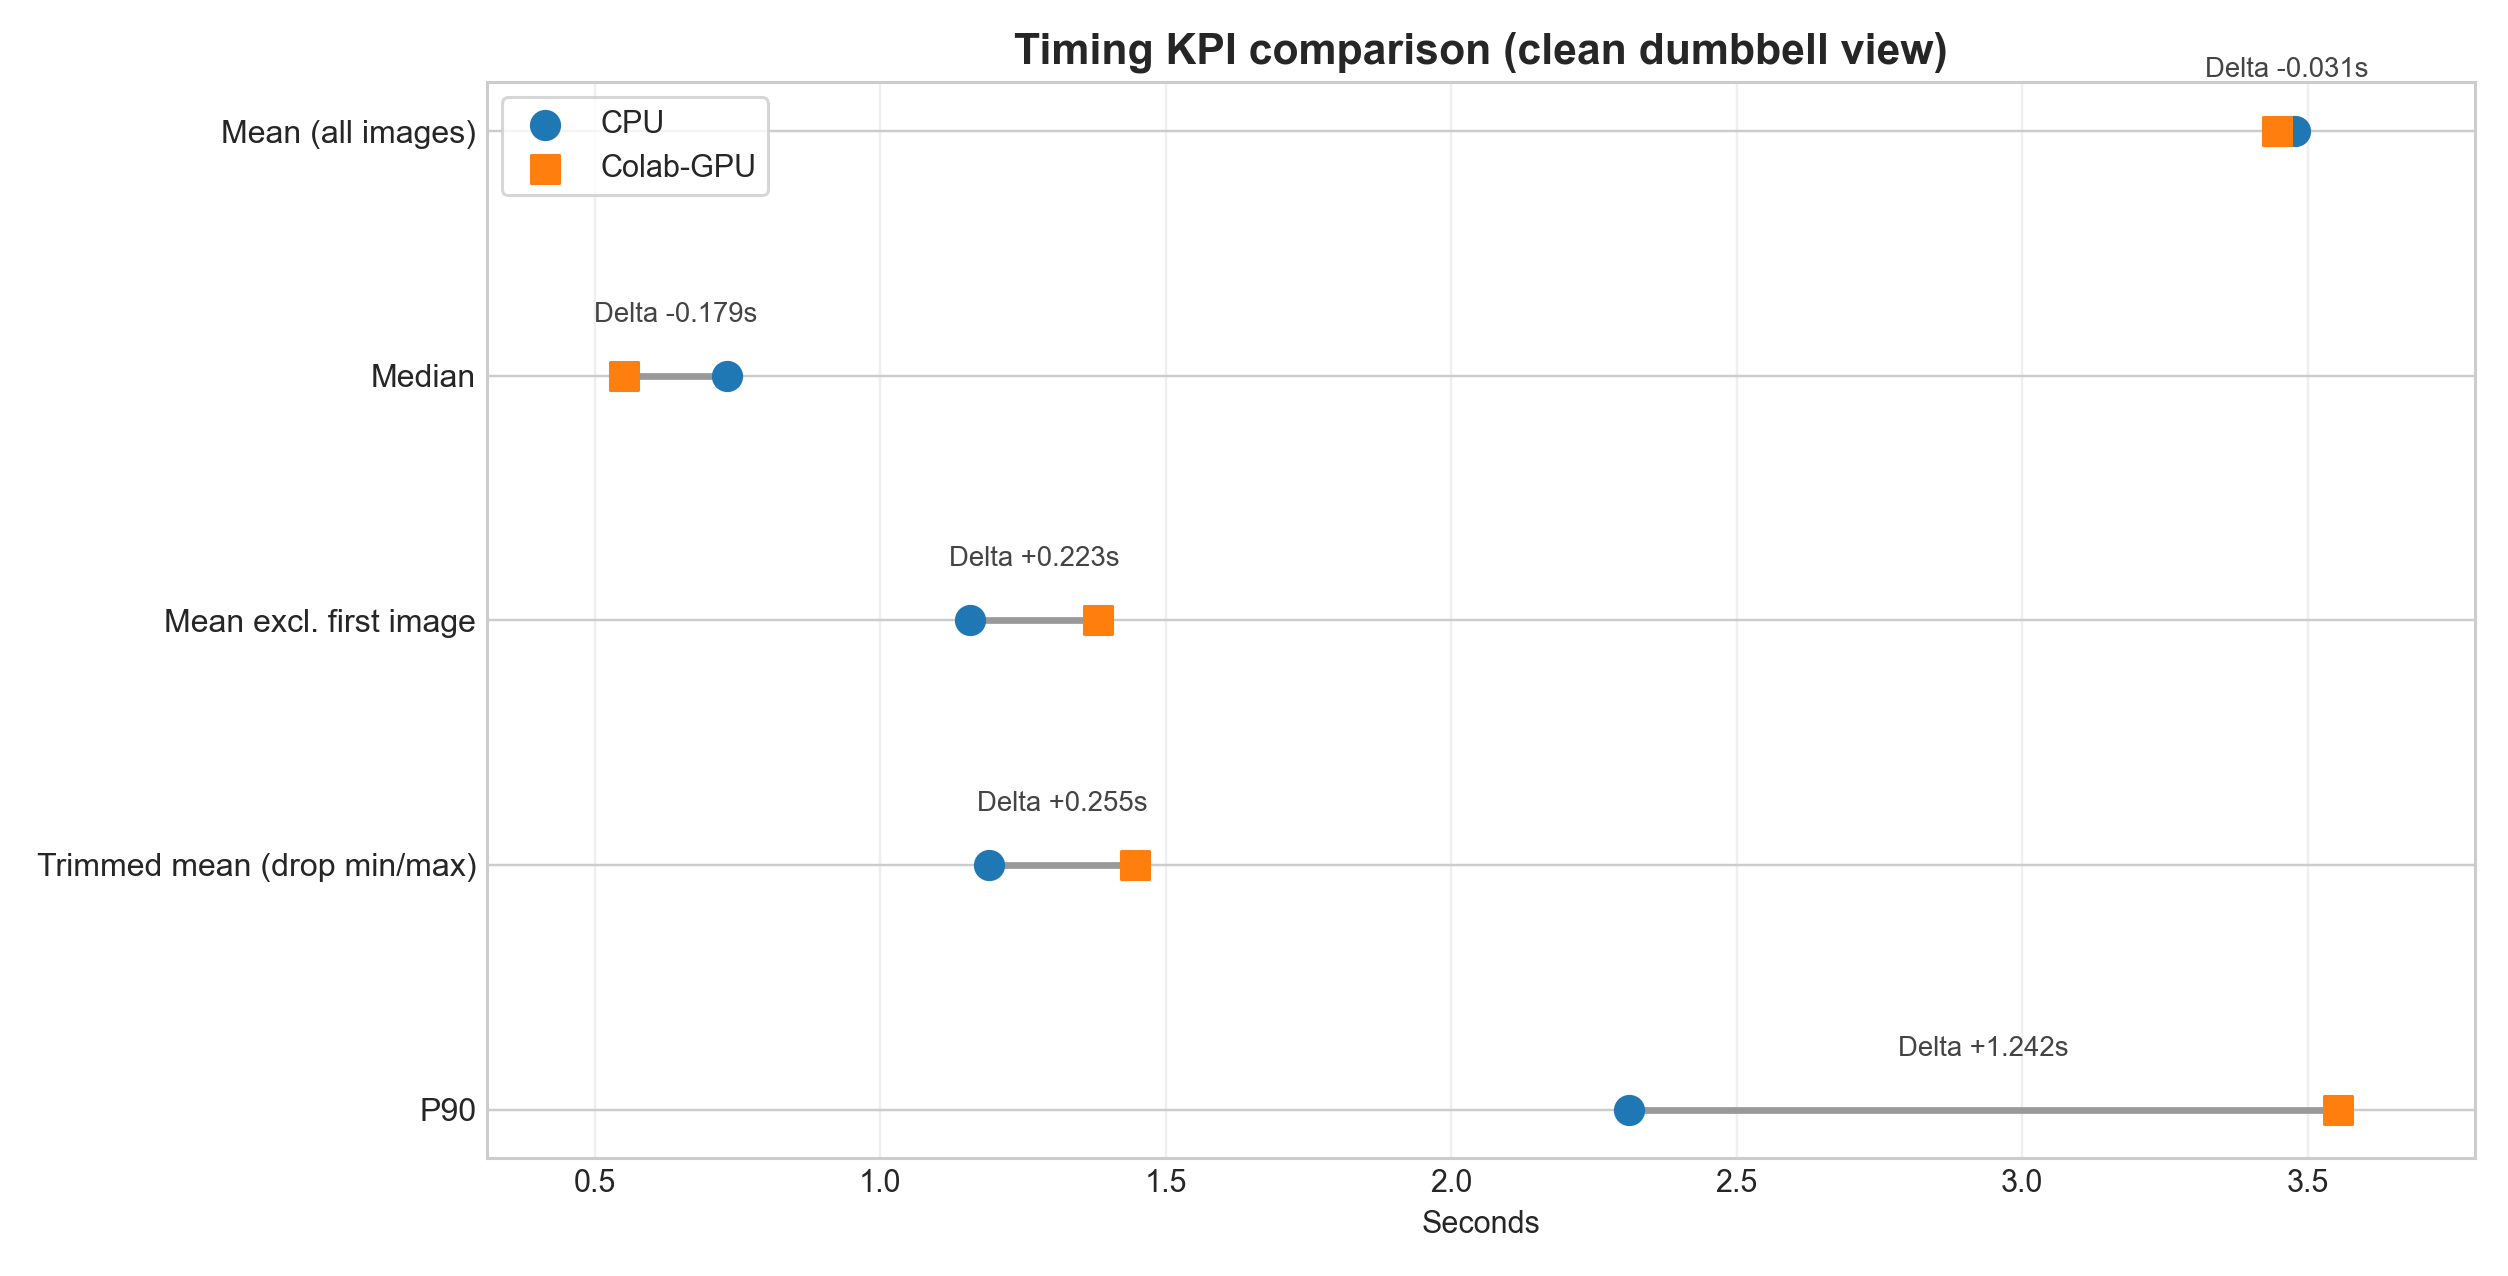
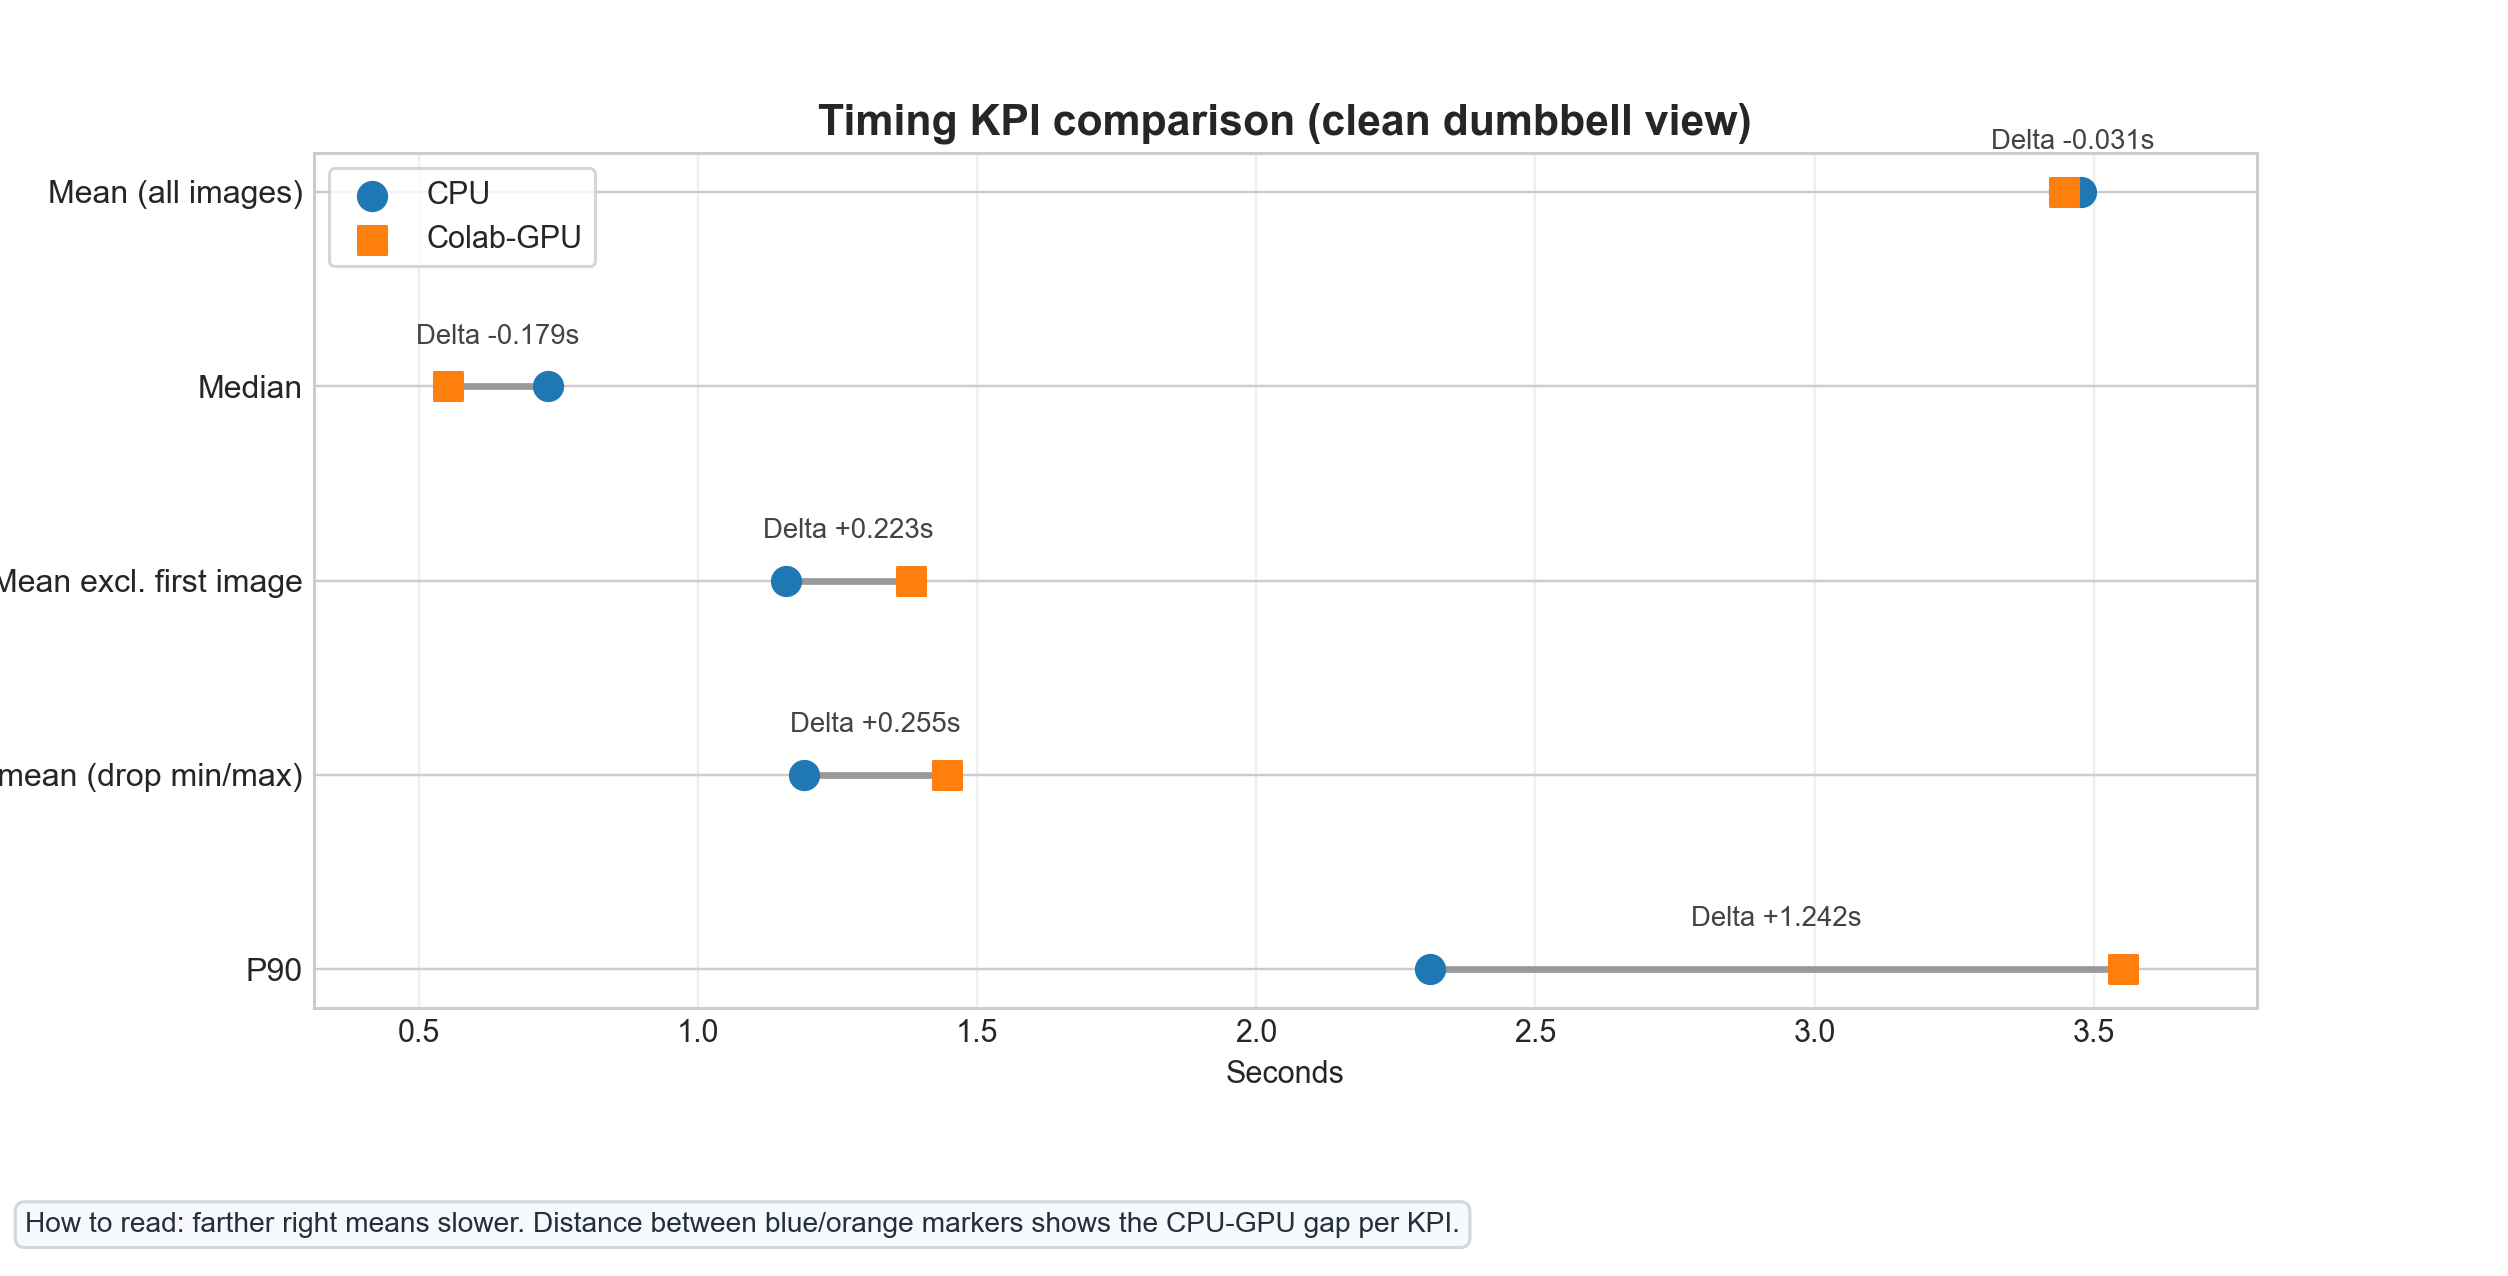
Improve README

diff --git a/results/generate_comparison_charts.py b/results/generate_comparison_charts.py
@@ -58,9 +58,23 @@ def save_quality_parity_panel(cpu_metrics: pd.DataFrame, gpu_metrics: pd.DataFra
     ax_matrix.set_yticks(np.arange(len(values.index)))
     ax_matrix.set_yticklabels([index.title() for index in values.index], fontsize=10)
 
+    vmin, vmax = 0.55, 0.90
     for row in range(values.shape[0]):
         for col in range(values.shape[1]):
-            ax_matrix.text(col, row, f"{values.iloc[row, col]:.3f}", ha="center", va="center", fontsize=9, color="#202020")
+            value = float(values.iloc[row, col])
+            normalized = (value - vmin) / (vmax - vmin)
+            text_color = "#ffffff" if normalized >= 0.58 else "#1f2933"
+            text_weight = "semibold" if normalized >= 0.58 else "normal"
+            ax_matrix.text(
+                col,
+                row,
+                f"{value:.3f}",
+                ha="center",
+                va="center",
+                fontsize=9,
+                color=text_color,
+                fontweight=text_weight,
+            )
 
     fig.colorbar(image, ax=ax_matrix, fraction=0.046, pad=0.03, label="Metric value")
 
@@ -141,7 +155,20 @@ def save_timing_dumbbell(
     padding = (xmax - xmin) * 0.08
     ax.set_xlim(max(0.0, xmin - padding), xmax + padding)
 
-    fig.tight_layout()
+    fig.subplots_adjust(bottom=0.21)
+    fig.text(
+        0.01,
+        0.03,
+        (
+            "How to read: farther right means slower. "
+            "Distance between blue/orange markers shows the CPU-GPU gap per KPI."
+        ),
+        ha="left",
+        va="bottom",
+        fontsize=9.2,
+        color="#23303d",
+        bbox={"boxstyle": "round,pad=0.35", "facecolor": "#f7f9fc", "edgecolor": "#d0d7de"},
+    )
     fig.savefig(output_path, dpi=220)
     plt.close(fig)
 
@@ -176,7 +203,20 @@ def save_latency_boxstrip(cpu_eval: pd.DataFrame, gpu_eval: pd.DataFrame, output
     ax.grid(axis="y", alpha=0.3, which="both")
     ax.legend(loc="upper right")
 
-    fig.tight_layout()
+    fig.subplots_adjust(bottom=0.26)
+    fig.text(
+        0.01,
+        0.03,
+        (
+            "How to read: box = typical range (middle 50%), line in box = median.\n"
+            "Dots outside whiskers = outliers. Lower is faster. Left=CPU, right=Colab-GPU."
+        ),
+        ha="left",
+        va="bottom",
+        fontsize=9.2,
+        color="#23303d",
+        bbox={"boxstyle": "round,pad=0.35", "facecolor": "#f7f9fc", "edgecolor": "#d0d7de"},
+    )
     fig.savefig(output_path, dpi=220)
     plt.close(fig)
 
@@ -194,14 +234,62 @@ def save_latency_sequence(cpu_eval: pd.DataFrame, gpu_eval: pd.DataFrame, output
     ax.scatter([1], [gpu_time[0]], color="#ff7f0e", marker="s", edgecolor="black", s=140, zorder=4)
 
     ax.set_yscale("log")
+    y_min = float(min(cpu_time.min(), gpu_time.min()))
+    y_max = float(max(cpu_time.max(), gpu_time.max()))
+    tick_candidates = np.array([0.2, 0.3, 0.5, 0.75, 1, 1.5, 2, 3, 5, 10, 20, 30, 40, 50], dtype=float)
+    ticks = tick_candidates[(tick_candidates >= y_min * 0.9) & (tick_candidates <= y_max * 1.1)]
+    if len(ticks) >= 4:
+        ax.set_yticks(ticks)
+        ax.set_yticklabels([f"{tick:g}s" for tick in ticks], fontsize=9.5)
+
     ax.set_xticks(image_idx)
     ax.set_xlabel("Image order")
-    ax.set_ylabel("Inference time in seconds (log scale)")
+    ax.set_ylabel("Inference time (log scale, seconds shown)")
     ax.set_title("Latency by image order (warm-up spike at first image)", fontsize=14, weight="bold")
     ax.grid(alpha=0.25, which="both")
     ax.legend(loc="upper right")
+    ax.set_xlim(0.6, len(image_idx) + 0.4)
+    ax.annotate(
+        f"CPU cold start: {cpu_time[0]:.2f}s\nGPU cold start: {gpu_time[0]:.2f}s",
+        xy=(1, max(cpu_time[0], gpu_time[0])),
+        xytext=(2.2, max(cpu_time[0], gpu_time[0]) * 0.55),
+        textcoords="data",
+        fontsize=8.8,
+        color="#23303d",
+        bbox={"boxstyle": "round,pad=0.25", "facecolor": "#f7f9fc", "edgecolor": "#d0d7de"},
+        arrowprops={"arrowstyle": "->", "color": "#6b7280", "lw": 1.0},
+    )
 
-    fig.tight_layout()
+    steady_cpu_median = float(np.median(cpu_time[1:])) if len(cpu_time) > 1 else float(np.median(cpu_time))
+    steady_gpu_median = float(np.median(gpu_time[1:])) if len(gpu_time) > 1 else float(np.median(gpu_time))
+    summary = (
+        f"Warm-up (image 1): CPU {cpu_time[0]:.2f}s | GPU {gpu_time[0]:.2f}s\n"
+        f"Steady median (images 2-20): CPU {steady_cpu_median:.2f}s | GPU {steady_gpu_median:.2f}s"
+    )
+    fig.subplots_adjust(bottom=0.20)
+    fig.text(
+        0.012,
+        0.025,
+        (
+            "How to read: y-axis is log(seconds). "
+            "Image 1 is a cold-start point (model initialization), later points show steady inference."
+        ),
+        ha="left",
+        va="bottom",
+        fontsize=9.0,
+        color="#23303d",
+        bbox={"boxstyle": "round,pad=0.30", "facecolor": "#f7f9fc", "edgecolor": "#d0d7de"},
+    )
+    fig.text(
+        0.012,
+        0.068,
+        summary,
+        ha="left",
+        va="bottom",
+        fontsize=8.6,
+        color="#23303d",
+    )
+
     fig.savefig(output_path, dpi=220)
     plt.close(fig)
 

diff --git a/results/comparison_cpu_vs_colab.md b/results/comparison_cpu_vs_colab.md
@@ -1,10 +1,10 @@
 # CPU vs. Colab-GPU Comparison Report
 
-## Data Basis
+## Setup
 
 - CPU source: `C:\Users\danie\PycharmProjects\age-gender-emotion-edge\results\Results CPU PYCHARM`
 - GPU source: `C:\Users\danie\PycharmProjects\age-gender-emotion-edge\results\RESULTS GPU TF Google Collab`
-- Basis: identical test set with `20` images and the same label structure.
+- Same `20`-image test set and same label format were used for both runs.
 
 ## Quality Metrics
 
@@ -32,10 +32,10 @@
 | P90 inference time (s) | 1.6876 | 2.4798 | 0.7922 | 46.9402% |
 | Min/Max (s) | 0.5734 / 47.5424 | 0.2131 / 42.6945 | - | - |
 
-## Prediction Consistency at Image Level
+## Prediction Consistency (Image Level)
 
 - Prediction tuples `(pred_gender, pred_emotion, pred_age_group)` were compared for all `20` images.
-- Number of differing prediction tuples between CPU and GPU runs: **0**.
+- Number of different prediction tuples between CPU and GPU: **0**.
 
 ## Figures for Report/Appendix
 
@@ -43,7 +43,7 @@
 
 ![Quality parity panel](figures_cpu_vs_colab/01_quality_parity_panel.png)
 
-*Figure 1 uses a single clean quality matrix plus a compact delta summary box; this avoids redundant CPU/GPU overlap when all deltas are zero.*
+*Figure 1 shows one clean quality matrix and a short delta summary. Since all deltas are zero, separate CPU/GPU grids are not needed.*
 
 ### 2) Runtime Profile (Dumbbell Plot)
 
@@ -55,13 +55,13 @@
 
 ![Latency boxstrip](figures_cpu_vs_colab/03_latency_distribution_boxstrip.png)
 
-*Figure 3 visualizes distribution and spread of per-image inference times; the marked warm-up point is clearly above the steady-state range.*
+*Figure 3 shows the latency spread per image. The marked warm-up point is clearly above the steady-state range.*
 
 ### 4) Latency by Image Order
 
 ![Latency by order](figures_cpu_vs_colab/04_latency_by_image_order.png)
 
-*Figure 4 shows the time series by image index and highlights the initial warm-up effect in both runs.*
+*Figure 4 shows inference time by image index and highlights the first-image warm-up effect in both runs.*
 
 ### 5) Per-Image Runtime Delta (Lollipop)
 
@@ -69,8 +69,8 @@
 
 *Figure 5 shows `CPU - GPU` per image; positive values indicate a GPU speed advantage.*
 
-## Conclusion
+## Takeaway
 
 - Classification quality is identical across all reported scopes in this experiment.
 - Observed differences are primarily runtime-related and strongly influenced by warm-up behavior.
-- For robust reporting, end-to-end metrics and warm-up-aware metrics should be presented together.
+- For a fair report, show both end-to-end metrics and warm-up-aware metrics together.

diff --git a/README.md b/README.md
@@ -1,10 +1,13 @@
-# Age, Gender, and Emotion Recognition (local edge)
+# Edge AI Face Attribute Recognition (Age, Gender, Emotion)
 
-Python app that runs **entirely on your machine** (no cloud APIs): webcam or **single image** analysis for **age**, **gender**, and **dominant emotion**, using OpenCV for capture/detection and [DeepFace](https://github.com/serengil/deepface) pretrained models.
+This is my coursework project for running age, gender, and emotion inference fully on a local machine (no cloud API calls).  
+It supports webcam mode and single-image mode, using OpenCV for face handling and [DeepFace](https://github.com/serengil/deepface) pretrained models.
 
 **Stack:** Python **3.10–3.12** (recommended), OpenCV, DeepFace, TensorFlow, **Rich**, **matplotlib**, **scikit-learn** (confusion matrices / reports). On Windows, **Python 3.13+ / 3.14** usually cannot install TensorFlow yet (`No matching distribution found for tensorflow`) — install 3.12 alongside and use `py -3.12` for the venv.
 
-Dependencies are **not** hard coded inside the Python files; they live in [`requirements.txt`](requirements.txt) so anyone can reinstall the same environment.
+Dependencies are kept in [`requirements.txt`](requirements.txt), so the environment can be recreated easily.
+
+> Note: this README focuses on local execution and reproducibility. Any Colab-specific workflow details can stay in the project report.
 
 ## Reproducibility (fresh clone)
 
@@ -135,7 +138,7 @@ Needs face images in the folder (for benchmarking, any folder with a few `.jpg/.
 python performance.py --images_dir dataset\images --n_runs 3 --out_csv results\performance.csv --plot results\performance_plot.png
 ```
 
-`--no-plot` skips matplotlib. GPU time is measured when TensorFlow sees a GPU; otherwise the code falls back to a simple simulation. For the coursework GPU requirement, run the benchmark on a GPU runtime (e.g. Google Colab).
+`--no-plot` skips matplotlib. GPU time is measured when TensorFlow sees a GPU; otherwise the code falls back to a simple simulation.
 
 ## Project layout
 
@@ -156,7 +159,8 @@ results/          (created when you run eval / benchmark)
 
 ## Course report (DLBAIPEAI Task 2)
 
-Laptop as **edge device**; use evaluation CSV + benchmark CSV/plot for tables and figures; compare with a GPU run elsewhere if your report asks for it.
+Use the laptop as the **edge device** and reuse the generated CSV/plot files for report tables and figures.  
+If the assignment asks for a GPU comparison, that can be documented in the report section (separate from this repo setup guide).
 
 ## Edge AI Explanation
 
